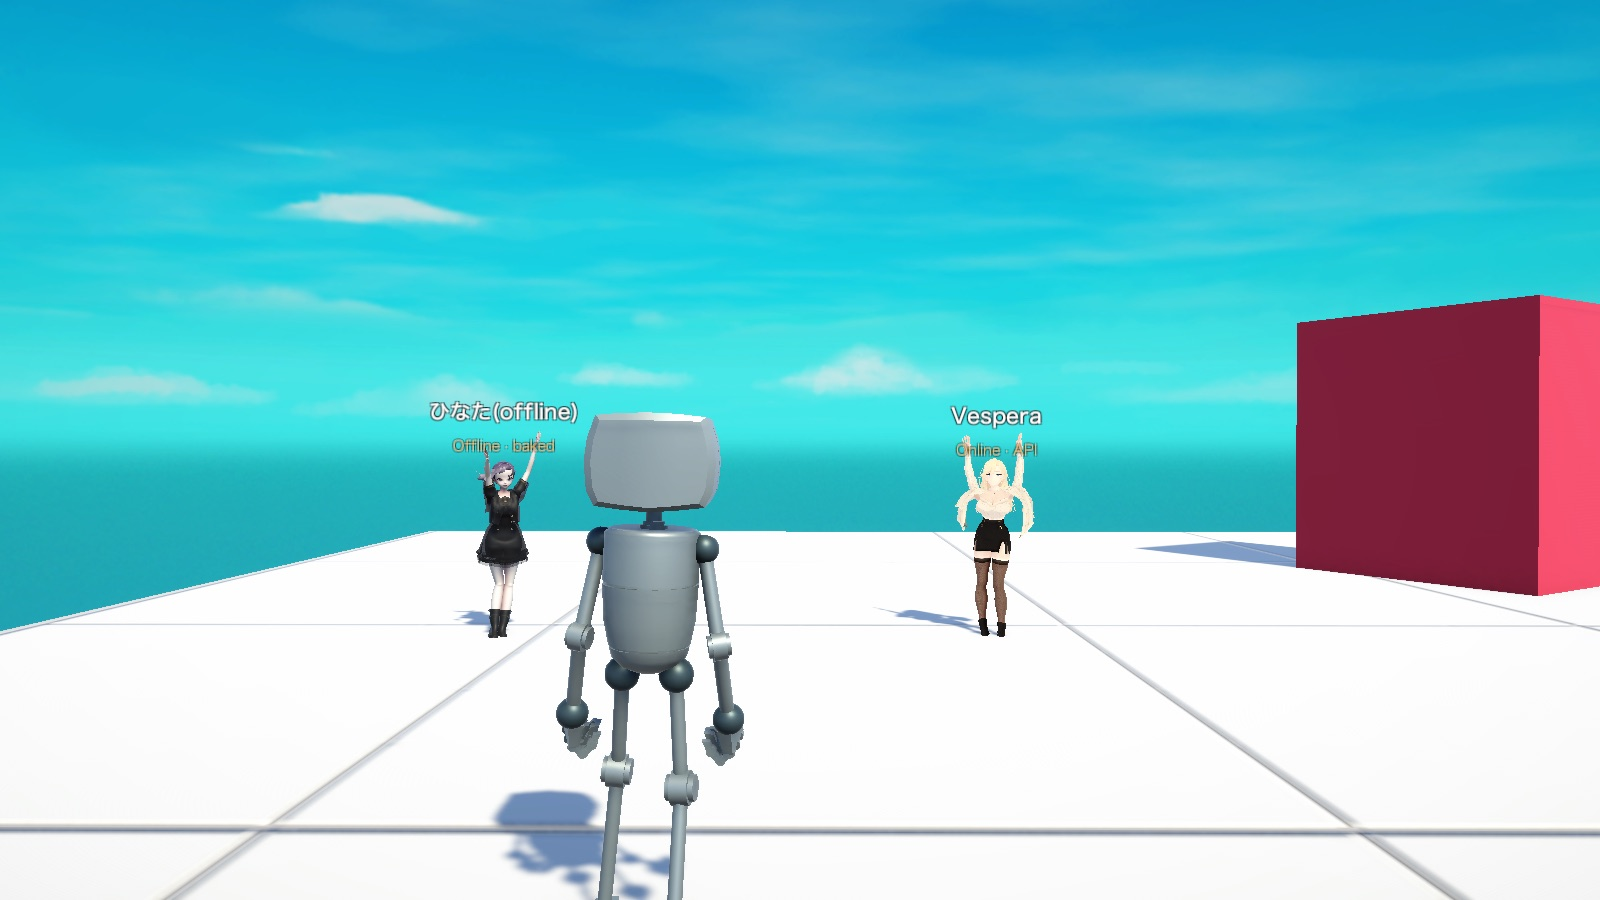
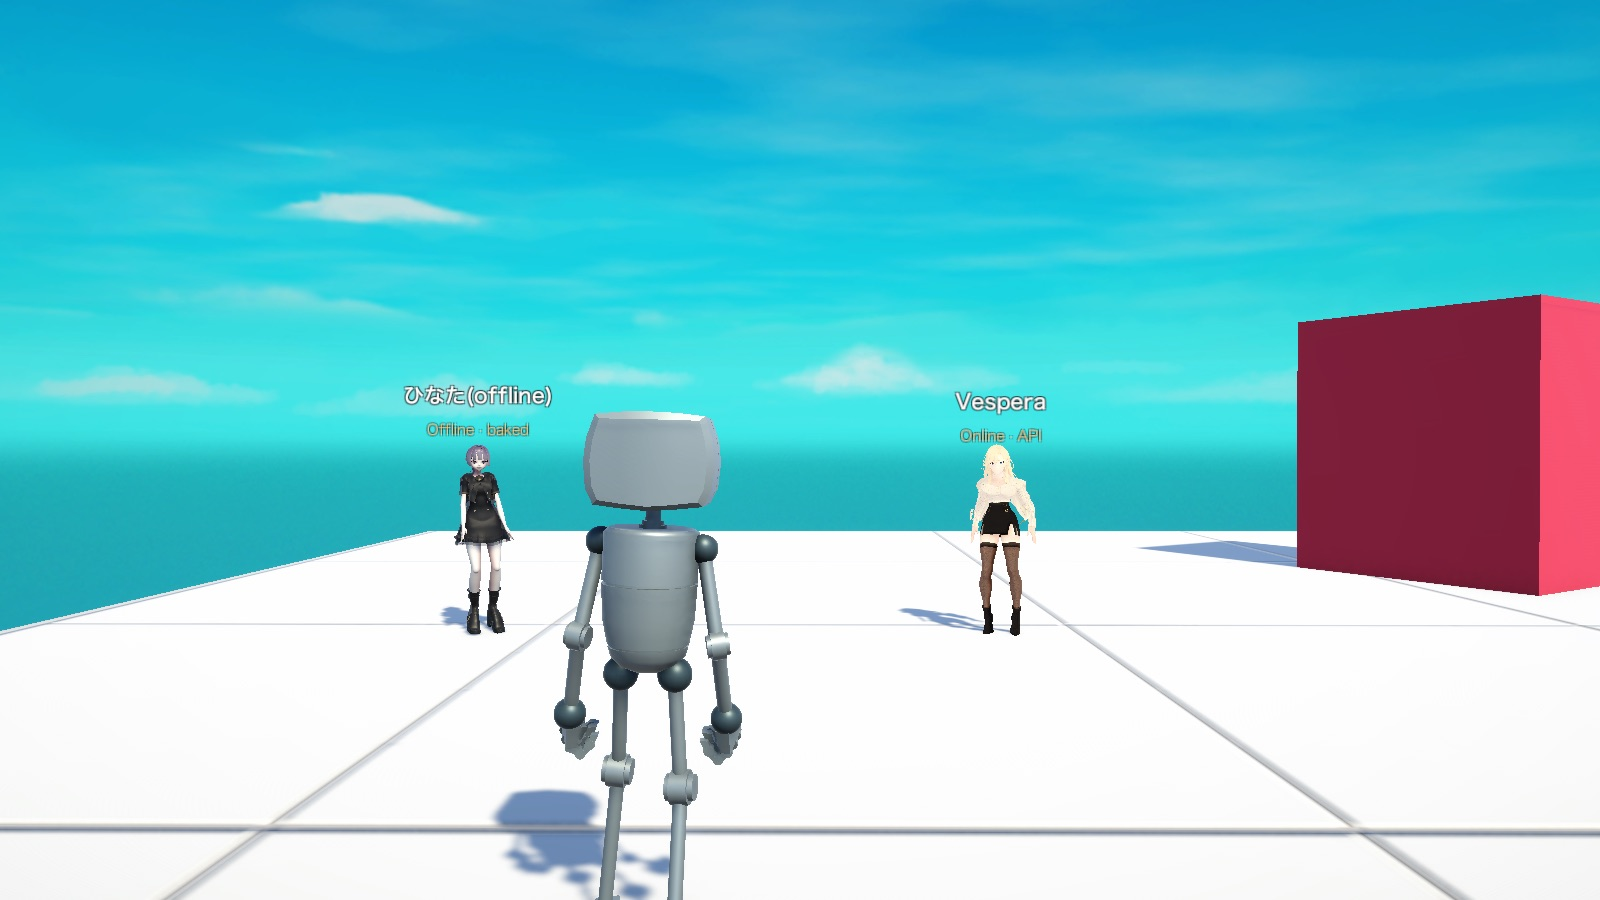
fix: create the UniVRM control rig before the NPC rotation
UniVRM keeps the bone world rotations of the first Runtime access as the
T-pose. The NPC parented the model first, so every VRMA animation played
mirrored and the arms went up instead of down.

diff --git a/Assets/NpcifyDemo/Scripts/NpcifyNpc.cs b/Assets/NpcifyDemo/Scripts/NpcifyNpc.cs
@@ -215,6 +215,10 @@ namespace NpcifyDemo
 
             // The SDK writes face blend shapes in LateUpdate. UniVRM must update first.
             _vrm.UpdateType = Vrm10Instance.UpdateTypes.Update;
+            // UniVRM makes the control rig on the first Runtime access and keeps the bone
+            // world rotations of that moment as the T-pose. Make it before the model gets
+            // the NPC's rotation, or every animation plays mirrored (raised arms).
+            _ = _vrm.Runtime;
             _vrm.transform.SetParent(transform, false);
             _vrm.transform.localPosition = Vector3.zero;
             _vrm.transform.localRotation = Quaternion.identity;
